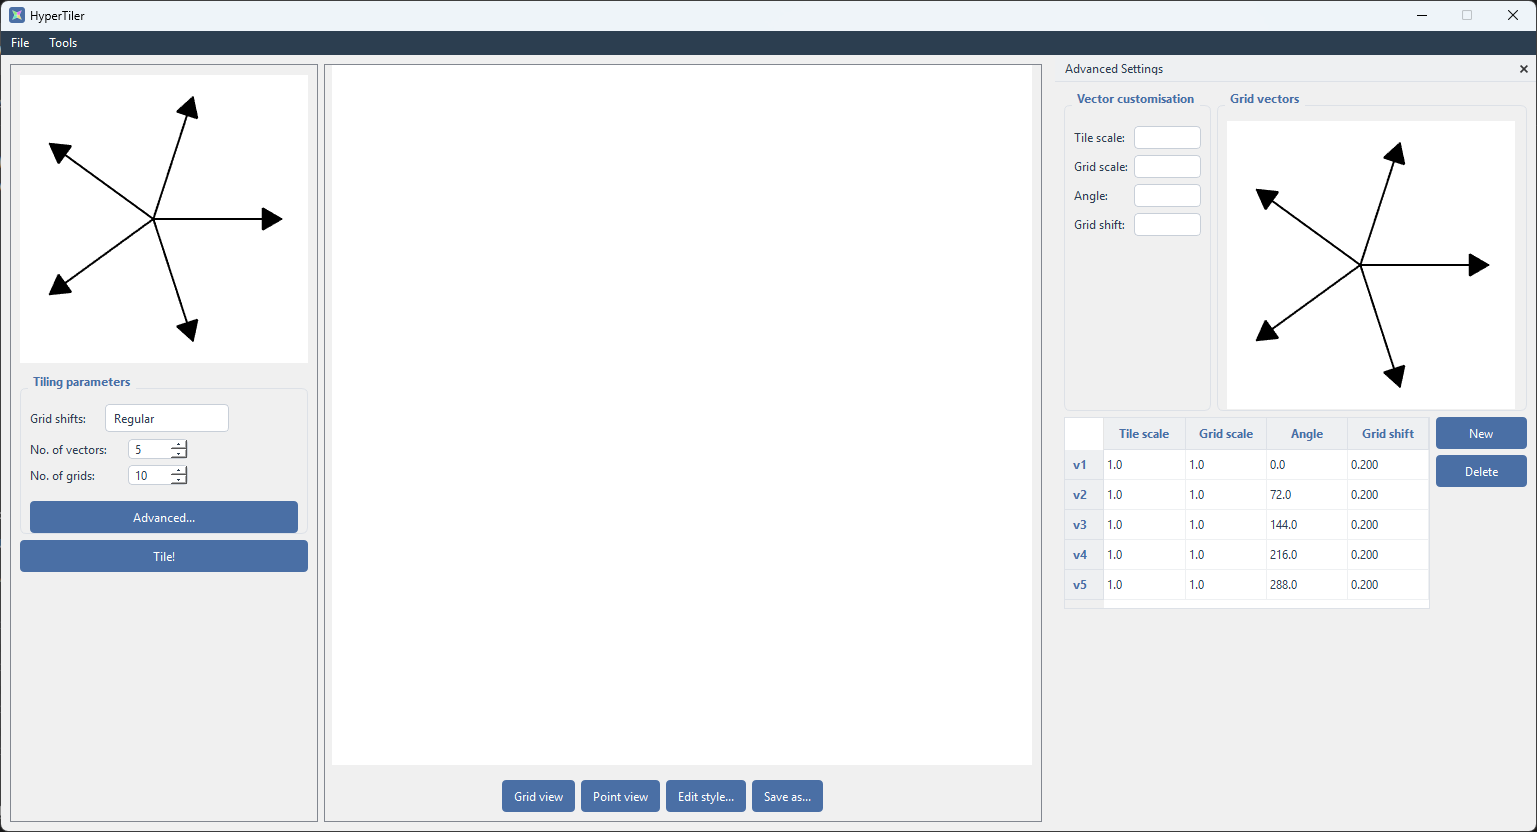
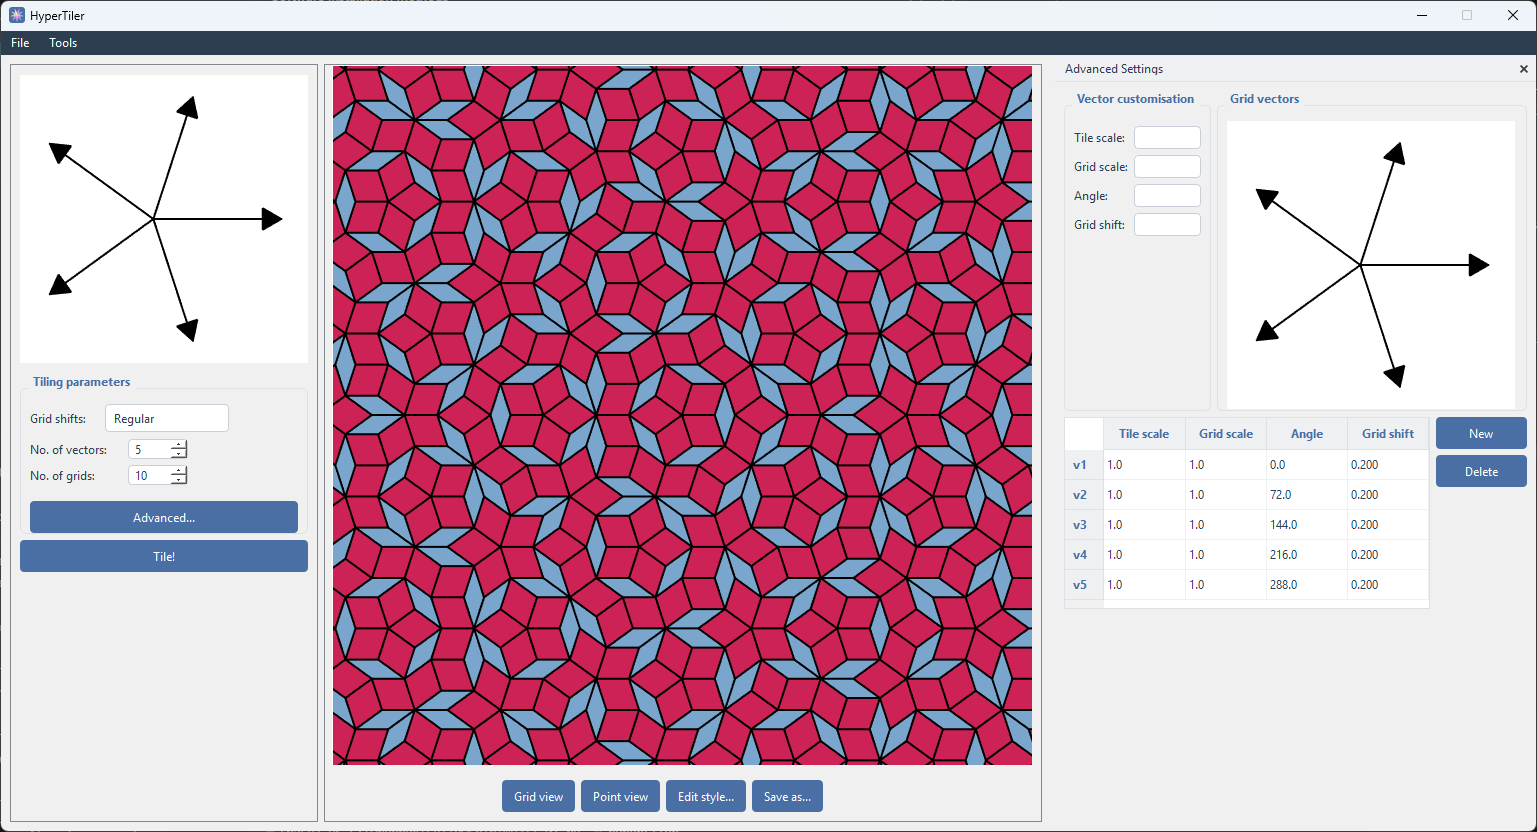
doc edits

diff --git a/README.md b/README.md
@@ -18,13 +18,21 @@ You can make tilings one of two ways: the dual-grid method, or by substitution r
 
 ## 🚀 Usage
 
-**Recommended:** read through the user guide pdf for a more detailed explanation (soon to be a wiki) -- this is just a lightweight overview!
+**Recommended:** read through the user guide pdf for a more detailed explanation (soon to be a wiki) - this is just a lightweight overview!
 
 ### Dual-grid mode
 
-![alt](./docs/grid_mode.png)
+Dual-grid mode builds tilings using de Bruijn's method from two sets of vectors: **tiling** and **grid**. In default mode, you shape the result by adjusting the number of vectors, the number of grids (which sets the size of the tiling patch), and the grid shifts.
+
+Advanced mode drops those defaults and lets you customise every vector individually - a far more powerful way to design fully custom tilings.
+
+![The dual grid window of HyperTiler in advanced mode, with a Penrose tiling example](./docs/grid_mode.png)
 
 ### Substitution mode
+
+Substitution mode builds tilings with supplied substitution rules. The *example svgs* folder contains some sample files, otherwise, see the HyperTiler guide on how to create your own svgs.
+
+![The substitution window of HyperTiler, with the octagonal m,n = 1 tiling](./docs/sub_mode.png)
 
 ### Analysis
 
